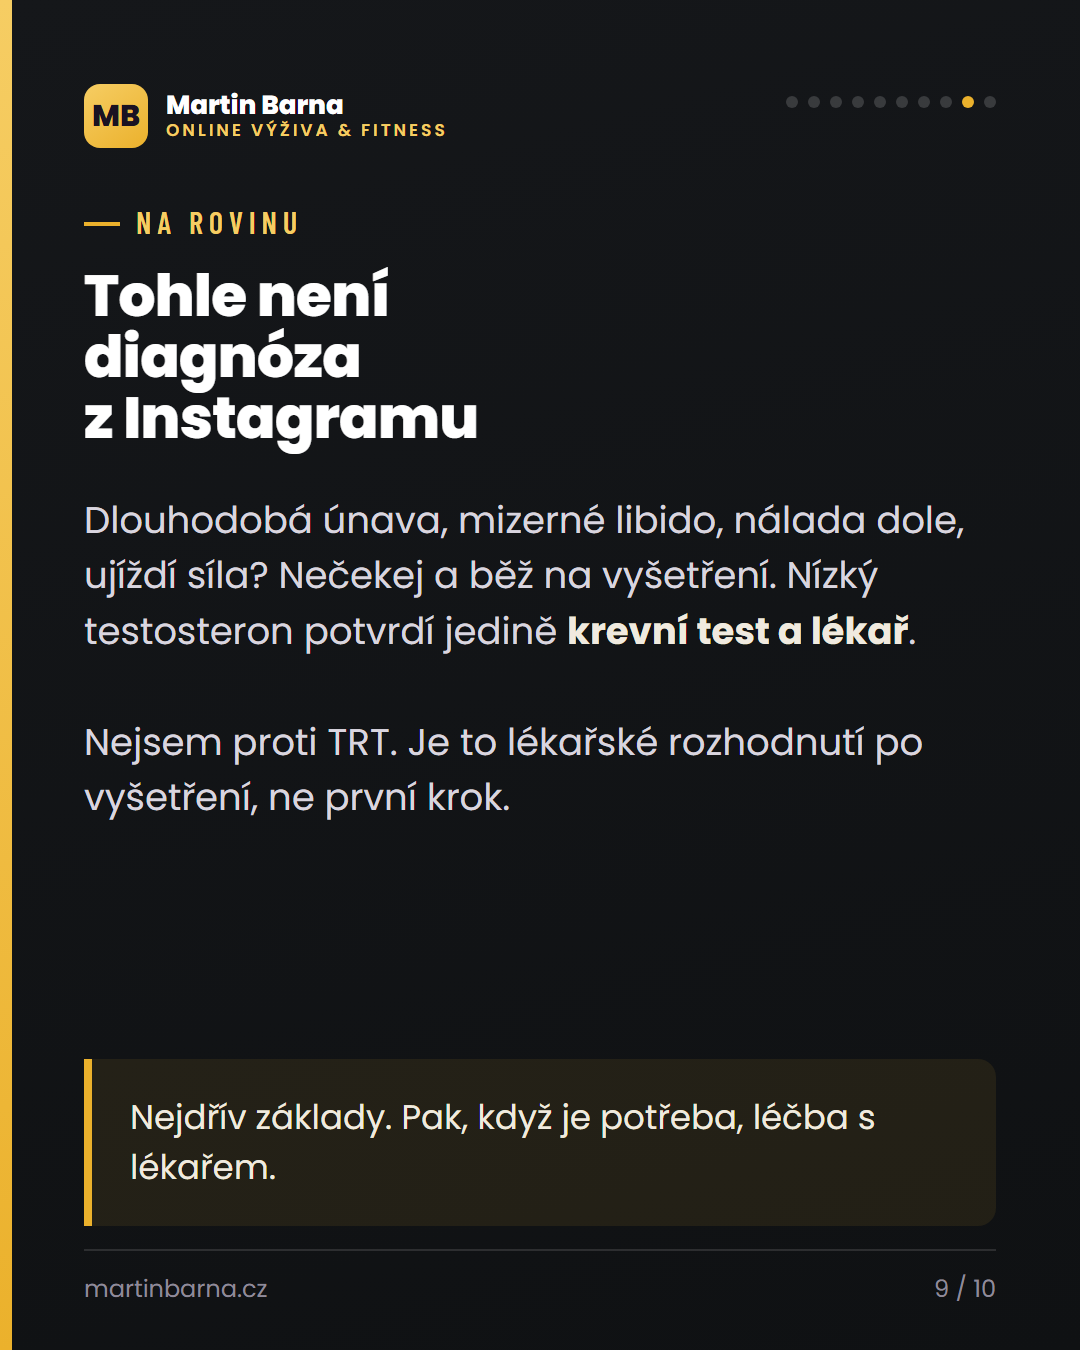
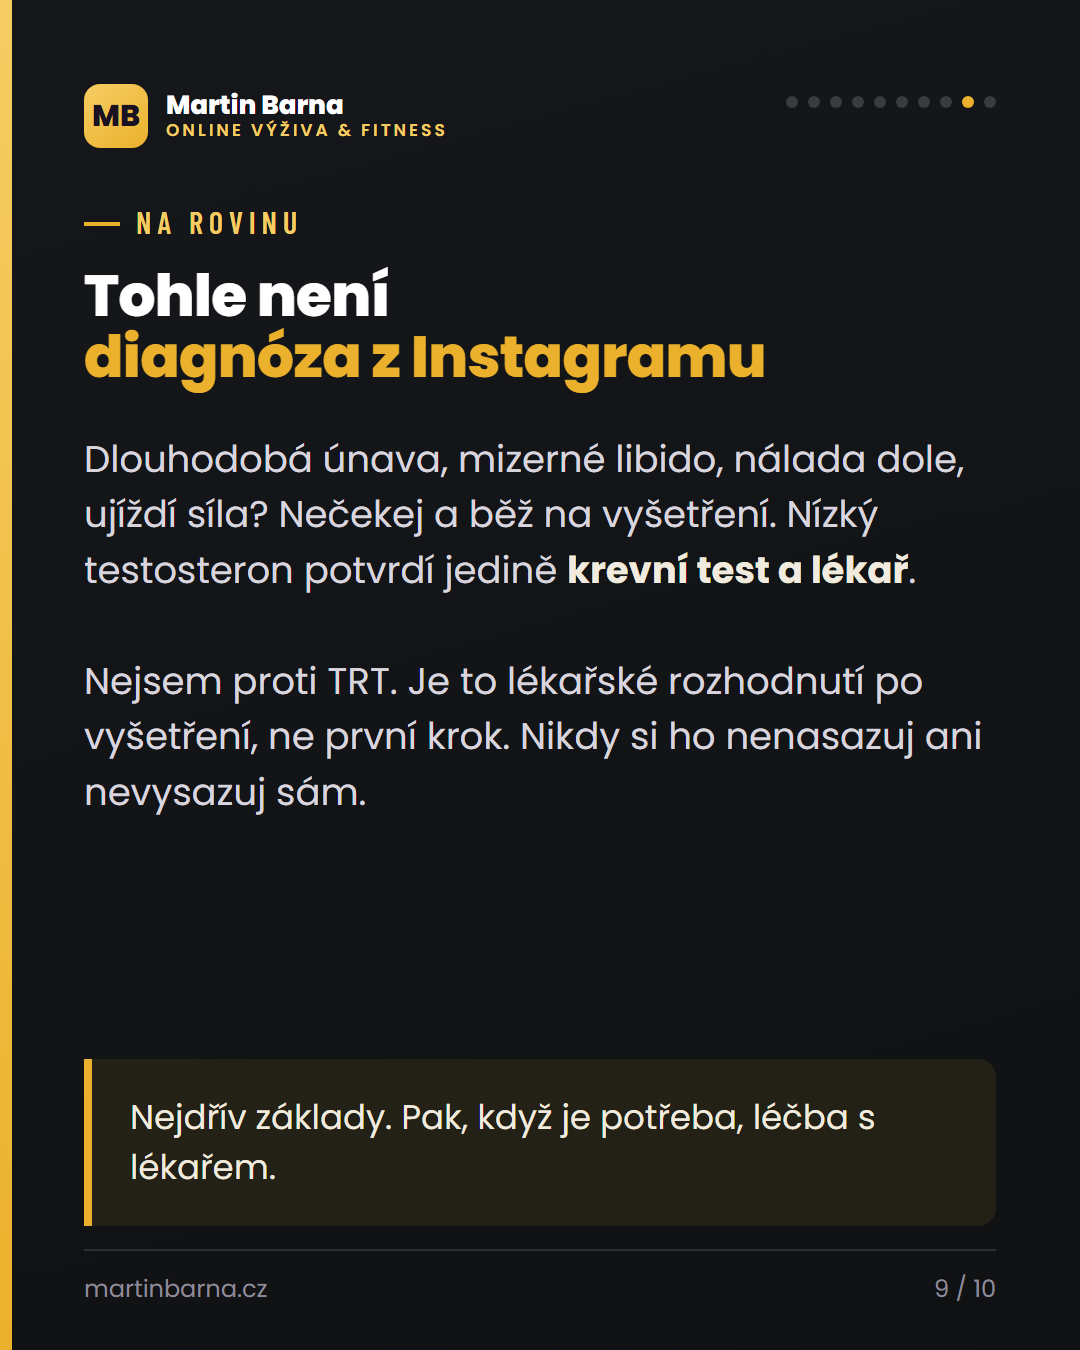
infografiky: testosteron (vychazi 6. 8.) projity a overeny proti PubMedu
⭐ HLAVNI NALEZ: nase verze je VECNE SPRAVNEJSI nez puvodni oranzova, ne naopak.
Overeno primo v PubMedu, ne odhadem:

  - Ken-Dror et al. 2024, Andrology (DOI 10.1111/andr.13484) je realna prace:
    44 studii, 1 774 ucastniku. Uvadi narust 2,5 nmol/l, coz je po prevodu
    (x28,84) 72 ng/dl. Nase "+72" tedy sedi.
  - Oranzova verze mela "+84" a pripisovala tech 1 774 muzu Coronovi 2013,
    ktery ma 24 studii. Byly to smichane dve prace.
  - Hayes a Elliott: oranzova uvadela 2018, spravne je 2019 (Front Physiol,
    muzi 60+, SMD -0,003). Nase verze mela rok spravne.
⇒ Puvodni cisla se NEVRACELA. Vracet je by znamenalo zanest chybu.

Vraceno z oranzove to, co bylo spravne a zmizelo:
  - cely slide o prirozenem poklesu ~1 % rocne (ted jako ramecek na slidu 2)
  - konkretni cislo u spanku: tyden po peti hodinach, pokles o 10 az 15 %
  - konkretni cislo u tuku: 20 az 25 % energie i pri hubnuti
  - vysvetlivka, co je aromataza

Jazyk (autorem decku byl Opus 4.8, Martin hlasi preklepy a AI slop):
  - "Meta-analyza u muzu 60+ ale u siloveho treninku..." dvoji "u", prehozeno
  - "V koucingu vidim to same porad dokola" -> cesky slovosled
  - citace z odrazek presunuty do boxu se zdrojem

Opraveno i v sablone: retezcovy `zdroj` se vysazel drobnym pismem, protoze
nedostal zadny styl a zdedil vychozi velikost prohlizece.

Overeno: 380 slidu, 0 preteceni, obrazky pregenerovany, 3 slidy zkontrolovany okem.

Changed region(s): [[0.0611, 0.2489, 0.9167, 0.6222]]

diff --git a/scripts/generate-carousel.js b/scripts/generate-carousel.js
@@ -153,7 +153,9 @@ function patka(s, auto = true, kompakt = false) {
   const casti = typeof z === 'string' ? [z] : z ? [z.kdo, z.kde, z.doi && 'DOI: ' + z.doi].filter(Boolean) : [];
   const zdroj = !z ? ''
     : kompakt ? `<div class="zdrojmini"><b>Zdroj:</b> ${casti.map(esc).join(', ')}</div>`
-    : `<div class="zdroj"><em>Zdroj</em>${typeof z === 'string' ? z
+    // Řetězcový zdroj se musí zabalit do <span>, jinak zdědí výchozí velikost písma
+    // prohlížeče a vysází se drobně. Strukturovaný zdroj má styl na <b>/<span>/<i>.
+    : `<div class="zdroj"><em>Zdroj</em>${typeof z === 'string' ? `<span>${z}</span>`
       : `${z.kdo ? `<b>${z.kdo}</b>` : ''}${z.kde ? `<span>${z.kde}</span>` : ''}${z.doi ? `<i>DOI: ${esc(z.doi)}</i>` : ''}`}</div>`;
   const callout = s.callout ? `<div class="callout">${s.callout}</div>` : '';
   const pozn = s.pozn ? `<div class="pozn">${s.pozn}</div>` : '';
